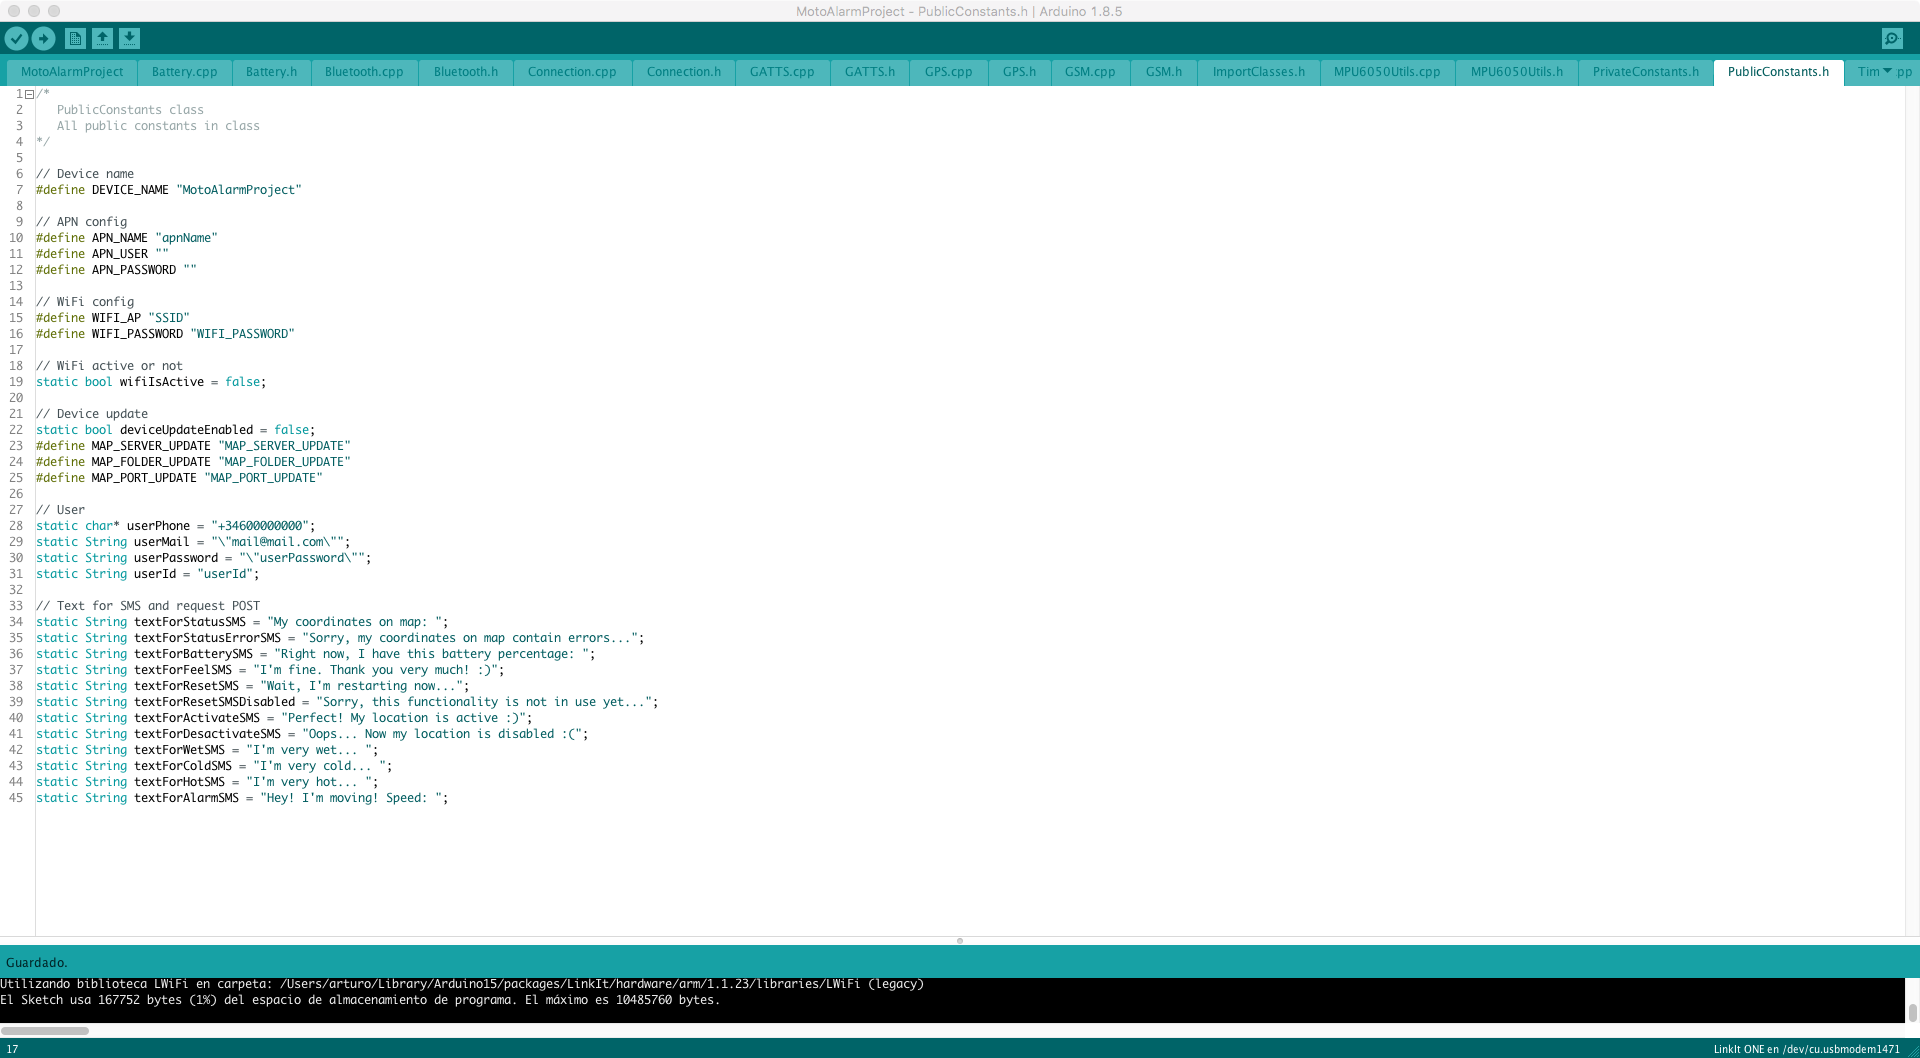
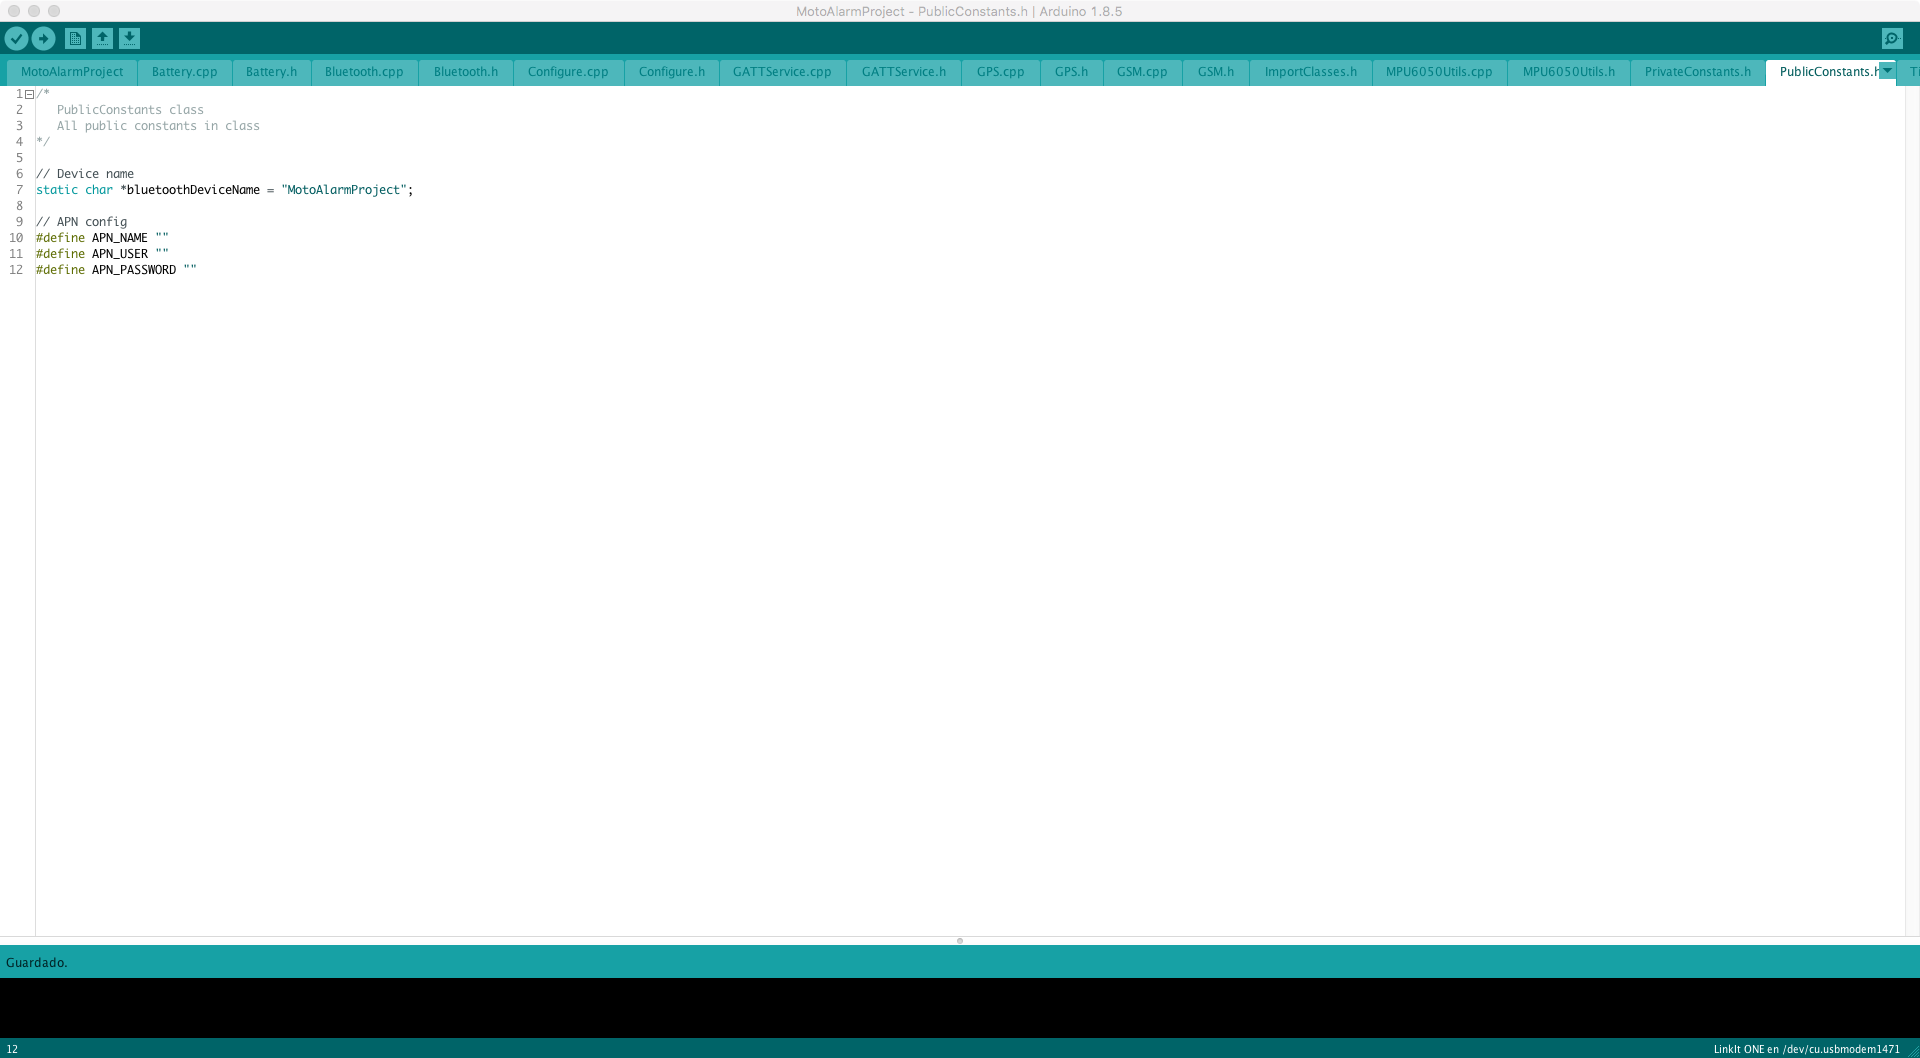
Change README.MD

diff --git a/MotoAlarmProject/PrivateConstants.h b/MotoAlarmProject/PrivateConstants.h
@@ -47,4 +47,4 @@ static String textForAlarmSMS = "Hey! I'm moving! Speed: ";
 static String textForAlarmSMSWithoutLocation = "Hey! I'm moving!";
 
 // Show logs, set true
-static bool debug = true;
+static bool debug = false;

diff --git a/README.MD b/README.MD
@@ -4,11 +4,11 @@
 
 ##### LOCATE YOUR MOTORCYCLE 24 HOURS A DAY AND 365 DAYS A YEAR
 
-[Moto Alarm Project Website](https://motoalarm-project.com "Moto Alarm Project")
+[Moto Alarm Project website](https://motoalarm-project.com "Moto Alarm Project")
 
 ![MacDown Screenshot](Resources/Box.jpg)
 
-#### PROJECT FUNCTIONALITIES (For iOS or Android apps):
+#### PROJECT FUNCTIONALITIES (For iOS and Android apps):
 
 - You can see the position of your motorcycle at all times.
 - You can see the last update date of your motorcycle's position.
@@ -31,8 +31,8 @@
 #### UPDATE TIMES (For iOS and Android apps):
 
 - With the service deactivated, the status of the battery is sent every <b>24 hours</b>.
-- With the service activated, all data is sent every <b>12 hours</b>, but if the motorcycle with MPU650 module detects movement, it is sent every <b>30 seconds</b>.
-- From the mobile application, you can change the default update time and adapt it to your needs, but the MPU6050 sensor will activate the services if necessary and save battery ;)
+- With the service activated, if the motorcycle with MPU650 module detects movement, it is sent every <b>2 minutes</b>.
+- From the mobile application, you can change the default update time (2 minutes) and adapt it to your needs, but the MPU6050 sensor will activate the services if necessary and save battery ;)
 
 ### DOWNLOAD iOS VERSION:
 
@@ -59,11 +59,11 @@ Arduino is an open-source electronics platform based on easy-to-use hardware and
 
 This is the manufacturer's website:
 
-[Arduino Website](https://www.arduino.cc "Arduino")
+[Arduino website](https://www.arduino.cc "Arduino")
 
 To program for Arduino, you need to download the Integrated development environment (IDE):
 
-[Arduino Sofware Website](https://www.arduino.cc/en/Main/Software "Arduino Software")
+[Arduino software website](https://www.arduino.cc/en/Main/Software "Arduino Software")
 
 ### LINKIT ONE BOARD
 
@@ -77,11 +77,11 @@ The LinkIt ONE development board is an open source, high-performance board for p
 
 This is the manufacturer's website:
 
-[SeedStudio Website](https://www.seeedstudio.com "SeedStudio")
+[SeedStudio website](https://www.seeedstudio.com "SeedStudio")
 
 In order to use this board with the Arduino IDE, you need to follow some steps:
 
-[Linkit One Guide Website](https://docs.labs.mediatek.com/resource/linkit-one/en "SeedStudio")
+[Linkit One Guide website](https://docs.labs.mediatek.com/resource/linkit-one/en "SeedStudio")
 
 ### MPU6050
 
@@ -119,7 +119,7 @@ I use FreedomPop SIM, it is free with:
 - 300 SMS
 - 100 minutes for call
 
-[FreedomPop Website](https://es.freedompop.com/es?experience=organic.default "FreedomPop")
+[FreedomPop website](https://es.freedompop.com/es?experience=organic.default "FreedomPop")
 
 Once you have everything configured in the Arduino IDE to use your new Linkit One board, you can already clone this repository on your computer and access the MotoAlarmProject folder and open the <b>MotoAlarmProject.ino</b> file.
 
@@ -146,7 +146,7 @@ Your configuration data is in this class, but you only need to add the following
 #define DEVICE_NAME = "MotoAlarmProject";
 ```
 
-- To configure internet access from your Linkit One with your SIM card, you must add your operator's configuration. In my case, the APN property is orangeworld and the username and password are empty.
+- To configure internet access from your Linkit One with your SIM card, you must add your operator's configuration. In my case, the APN property is 'internetmas' and the username and password are empty.
 
 ```
 // APN
@@ -155,45 +155,7 @@ Your configuration data is in this class, but you only need to add the following
 #define APN_PASSWORD = "";
 ```
 
-- If you want to use WiFi connection instead of GPRS you can configure it here, but if you then park the motorcycle out of reach of that WiFi, the device will not have connection.
-
-```
-// WiFi config
-#define WIFI_AP "SSID"
-#define WIFI_PASSWORD "WIFI_PASSWORD"
-
-// WiFi active or not
-static bool wifiIsActive = false;
-```
-
-- To receive SMS from your Linkit One, add your phone number in userPhone property.
-- Once you download the app for iOS (iPhone and iPad) and register as a user, you must put your registration email and your password in the userMail and userPassword properties respectively, so that your Linkit One can get a session token and do requests sending the data to the server. Also, look at your user id in the application profile and put it in the userId property.
-
-```
-// User
-static char* userPhone = "+34600000000";
-static String userMail = "\"mail@mail.com\"";
-static String userPassword = "\"userPassword\"";
-static String userId = "userId";
-```
-
-- You can also translate the texts for the SMS sent by your motorcycle to the language of your choice.
-
-```
-// Text for SMS and request POST
-static String textForStatusSMS = "My coordinates on map: ";
-static String textForStatusErrorSMS = "Sorry, my coordinates on map contain errors...";
-static String textForBatterySMS = "Right now, I have this battery percentage: ";
-static String textForFeelSMS = "I'm fine. Thank you very much! :)";
-static String textForResetSMS = "Wait, I'm restarting now...";
-static String textForResetSMSDisabled = "Sorry, this functionality is not in use yet...";
-static String textForActivateSMS = "Perfect! My location is active :)";
-static String textForDesactivateSMS = "Oops... Now my location is disabled :(";
-static String textForWetSMS = "I'm very wet... ";
-static String textForColdSMS = "I'm very cold... ";
-static String textForHotSMS = "I'm very hot... ";
-static String textForAlarmSMS = "Hey! I'm moving! Speed: ";
-```
+- For your Linkit One to send you SMS you have to add your phone in your profile in the iOS or Android application and it will be sent by bluetooth when you activate the service.
 
 You can now upload the code to your Linkit One!
 
@@ -221,28 +183,6 @@ I have changed the original battery with 1000mAh for a battery with 6000mAh, so 
 
 I added a usb charger to the battery in my motorcycle but in positive, that means that when I turn off the motorcycle it has no current, it only charges the powerbank when the motorcycle is on.
 
-### UPDATE FIRMWARE DEVICE FROM SERVER
-
-If you want to be able to update the device from server you have to mount the internal memory of your Linkit One and create an empty folder with the name 'OTA'.
-
-The configuration parameters can be added in the following constants:
-
-```
-// Device update
-static bool deviceUpdateEnabled = false;
-#define MAP_SERVER_UPDATE "MAP_SERVER_UPDATE"
-#define MAP_FOLDER_UPDATE "MAP_FOLDER_UPDATE"
-#define MAP_PORT_UPDATE "MAP_PORT_UPDATE"
-```
-
-### BATTERY BAG FOR SECURITY (OPTIONAL)
-
-If you do not like the batteries like me, you can use a bag of fire protection for batteries.
-
-![MacDown Screenshot](Resources/Battery_bag.jpg)
-
-[Battery bag in 'Aliexpress' shop](https://es.aliexpress.com/store/product/Lipo-Safe-Bag-Battery-Charging-Protector-Fireproof-Fiber-Pouch-Bag-Explosion-proof-Case-Storage-Box-for/2409111_32782212024.html)
-
 ### DO YOU CAN'T THE DEVICE? ASK FOR MY HELP!
 
 Don't worry, write me to my email and I can build it for you at the price of materials and shipping :)
@@ -252,17 +192,11 @@ Don't worry, write me to my email and I can build it for you at the price of mat
 General regulation of data protection and terms of use:
 
 - This application needs a user registration through his email and a password.
-
 - All the data that can be requested in the user's profile, such as: name, surname, address, telephone, etc., are optional and therefore, are not needed for the normal use of the application.
-
 - This application is used to, by means of a device that the user constructs and places on his motorcycle, to locate it at any time by sending his location to his user account.
-
 - The last coordinates of the motorcycle are stored in the server and no history of them is saved.
-
 - The user has at his disposal a button in the settings of the application to delete his account and all the data associated with it.
-
 - This application does not use analytics and does not transfer user data to third parties, nor does it exploit usage data for its benefit.
-
 - The developer of this project is not responsible under any circumstances, that the position of the vehicle is not registered correctly.
 
 ### LICENSE
